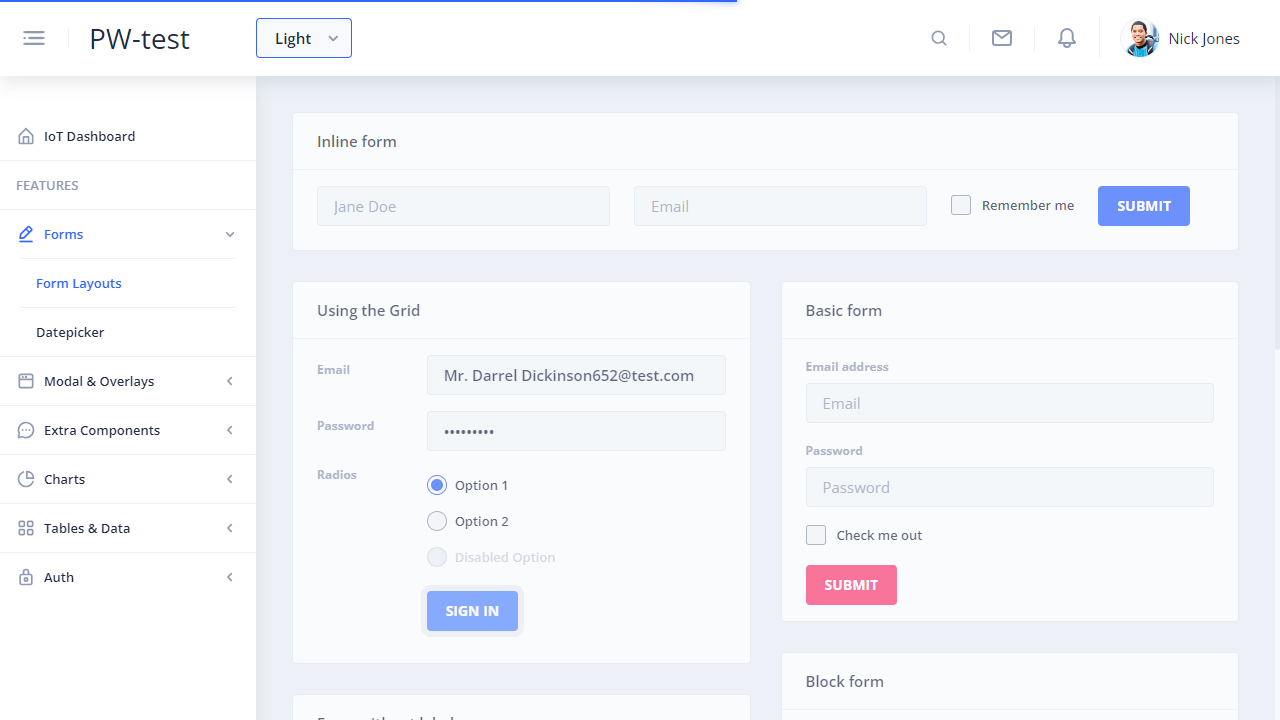
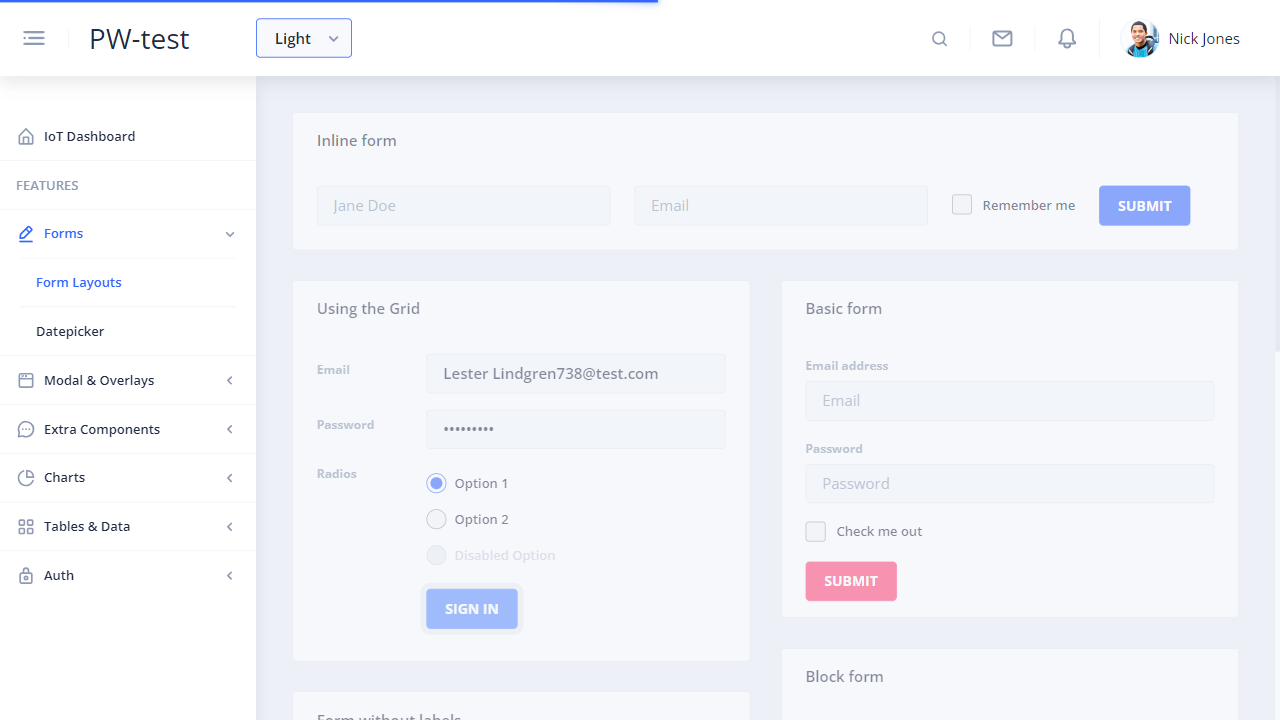
fixture lesson

diff --git a/tests/testWithFixtures.spec.ts b/tests/testWithFixtures.spec.ts
@@ -1,0 +1,46 @@
+import{test} from '../test-options'
+import { PageManager } from '../page-objects/page.manager'
+import {faker} from '@faker-js/faker'
+
+
+test('test by using Fixtures', async({page,formLayoutPage})=>{
+    
+    const pm = new PageManager(page)
+
+    const randomFullName = faker.person.fullName()
+    const randomEmail = `${randomFullName.trim()}${faker.number.int(1000)}@test.com`
+    
+   
+    await pm.formLayoutPage().submitUsingTheGridFormAndSelectOption(randomEmail,'Welcome 2','Option 1')
+    await pm.formLayoutPage().fillOutInlineForm(randomFullName, randomEmail, true)
+
+    
+})
+
+test('test by using Fixtures as page object class is in Fixture', async({pageManager})=>{
+    
+    const randomFullName = faker.person.fullName()
+    const randomEmail = `${randomFullName.trim()}${faker.number.int(1000)}@test.com`
+    
+   
+    await pageManager.formLayoutPage().submitUsingTheGridFormAndSelectOption(randomEmail,'Welcome 2','Option 1')
+    await pageManager.formLayoutPage().fillOutInlineForm(randomFullName, randomEmail, true)
+
+    
+})
+
+
+
+// test('test by using Fixtures with auto true', async({page})=>{
+    
+//     const pm = new PageManager(page)
+
+//     const randomFullName = faker.person.fullName()
+//     const randomEmail = `${randomFullName.trim()}${faker.number.int(1000)}@test.com`
+    
+   
+//     await pm.formLayoutPage().submitUsingTheGridFormAndSelectOption(randomEmail,'Welcome 2','Option 1')
+//     await pm.formLayoutPage().fillOutInlineForm(randomFullName, randomEmail, true)
+
+    
+// })

diff --git a/test-options.ts b/test-options.ts
@@ -1,9 +1,34 @@
 import {test as base} from '@playwright/test'
+import { PageManager } from './page-objects/page.manager'
 
 export type TestOptions ={
     globalsQaURL:string
+    formLayoutPage:string,
+    pageManager:PageManager
 }
 
 export const test = base.extend<TestOptions>({
-    globalsQaURL: ['', {option:true}]
+    globalsQaURL: ['', {option:true}],
+
+    formLayoutPage: async({page}, use)=>{
+        await page.goto('/')
+        await page.getByText('Forms').click()
+        await page.getByText('Form Layouts').click()
+        await use('')
+        //Everything code we do after the await use will serve after the test is executed.
+    },
+
+    // formLayoutPage: [async({page}, use)=>{
+    //     // THIS WITH INITILIAZE BEFORE beforeEach Hook meaning we do not need to pass the fixture in the test in order to run it.
+    //     await page.goto('/')
+    //     await page.getByText('Forms').click()
+    //     await page.getByText('Form Layouts').click()
+    //     await use('')
+    // }, {auto:true}]
+
+    //We can create dependencies between fixtures for example, giving formLayoutPage to be dependent with Page Manager
+    pageManager:async({page,formLayoutPage}, use)=>{
+        const pm = new PageManager(page)
+        await use(pm)
+    }
 })
